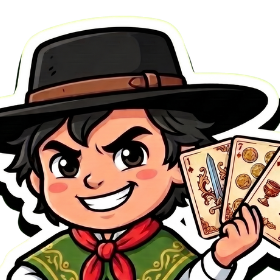
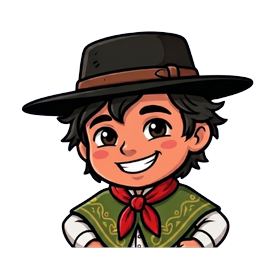
Pase 699: gaucho nuevo sonriente y login sin scroll en celular

diff --git a/src/components/Auth/AuthScreen.js b/src/components/Auth/AuthScreen.js
@@ -45,8 +45,64 @@ function Filigrana() {
   );
 }
 
+// Pase 699: login/registro en celular = pantalla fija sin scroll (espaciados compactos + escala si aún así no entra).
+function useEsCelAuth() {
+  const [v, setV] = useState(() => typeof window !== 'undefined' && !!window.matchMedia && window.matchMedia('(max-width: 899px)').matches);
+  useEffect(() => {
+    if (typeof window === 'undefined' || !window.matchMedia) return undefined;
+    const mq = window.matchMedia('(max-width: 899px)');
+    const f = () => setV(mq.matches);
+    f();
+    if (mq.addEventListener) mq.addEventListener('change', f); else mq.addListener(f);
+    return () => { if (mq.removeEventListener) mq.removeEventListener('change', f); else mq.removeListener(f); };
+  }, []);
+  return v;
+}
+const CSS_AUTH_CEL = `
+.au-pagina { height: 100dvh; min-height: 0 !important; overflow: hidden; padding: 8px 12px 6px !important; align-items: flex-start !important; box-sizing: border-box; }
+.au-app { transform-origin: 50% 0; }
+.au-logowrap { margin-bottom: 8px !important; }
+.au-logo { max-width: 250px !important; }
+.au-sub { font-size: 16px !important; }
+.au-panelext { padding: 8px !important; }
+.au-panel { padding: 12px 14px 14px !important; }
+.au-tabs { margin-bottom: 10px !important; }
+.au-tab { padding: 6px !important; }
+.au-field { margin-bottom: 8px !important; }
+.au-label { margin-bottom: 2px !important; font-size: 12px !important; }
+.au-input { padding: 9px 12px !important; font-size: 16px !important; }
+.au-btn { padding: 11px !important; }
+.au-olvide { margin-top: 6px !important; }
+.au-acepta { margin-top: 8px !important; font-size: 11.5px !important; line-height: 1.3 !important; }
+.au-divider { margin: 10px 0 8px !important; }
+.au-fb { padding: 8px !important; }
+.au-aviso { margin-top: 8px !important; font-size: 10.5px !important; line-height: 1.3 !important; }
+.au-anot { margin-top: 8px !important; padding: 6px 14px !important; }
+.au-footer { margin-top: 10px !important; }
+`;
+
 export default function AuthScreen({ onLoginExitoso, onOlvidoPassword, onIrAnotador, musicaMuteada, onToggleMusica }) {
   const [modo, setModo] = useState('login');
+  const esCel = useEsCelAuth();
+  const appRef = useRef(null);
+  const [escalaAuth, setEscalaAuth] = useState(1);
+  useEffect(() => {
+    if (!esCel) { setEscalaAuth(1); return undefined; }
+    const medir = () => {
+      const el = appRef.current;
+      if (!el) return;
+      const nat = el.offsetHeight;
+      const libre = window.innerHeight - 14;
+      if (nat > 0) {
+        const e = Math.max(0.6, Math.min(1, libre / nat));
+        setEscalaAuth((p) => (Math.abs(p - e) > 0.005 ? e : p));
+      }
+    };
+    medir();
+    const t = setInterval(medir, 500);
+    window.addEventListener('resize', medir);
+    return () => { clearInterval(t); window.removeEventListener('resize', medir); };
+  }, [esCel, modo]);
   const [form, setForm] = useState({ username: '', email: '', password: '' });
   const [error, setError] = useState('');
   const [cargando, setCargando] = useState(false);
@@ -236,7 +292,8 @@ useEffect(() => {
 }, []);
 
   return (
-  <div style={estilos.pagina}>
+  <div className={esCel ? 'au-pagina' : undefined} style={estilos.pagina}>
+    {esCel && <style id="auth-celular-699">{CSS_AUTH_CEL}</style>}
     <button
       type="button"
       onClick={onToggleMusica}
@@ -246,36 +303,36 @@ useEffect(() => {
       {musicaMuteada ? '🔇' : '🎵'}
     </button>
 
-    <div style={estilos.app}>
+    <div ref={appRef} className="au-app" style={esCel && escalaAuth < 1 ? { ...estilos.app, transform: `scale(${escalaAuth})` } : estilos.app}>
 
-        <div style={estilos.logoWrap}>
-          <img src="/assets/trucoche-logo.png" alt="TrucoChe" style={estilos.logoCompleto} />
-          <div style={estilos.logoSub}>che, ¿un truquito?</div>
+        <div className="au-logowrap" style={estilos.logoWrap}>
+          <img src="/assets/trucoche-logo.png" alt="TrucoChe" className="au-logo" style={estilos.logoCompleto} />
+          <div className="au-sub" style={estilos.logoSub}>che, ¿un truquito?</div>
         </div>
 
         {/* Pase de rediseño: placa de madera de caoba con remaches de
             bronce en las 4 esquinas envolviendo el pergamino interior
             (antes era una sola caja crema plana con borde chocolate). */}
-        <div style={estilos.panelExterior}>
+        <div className="au-panelext" style={estilos.panelExterior}>
           <span style={{ ...estilos.remache, top: 10, left: 10 }} />
           <span style={{ ...estilos.remache, top: 10, right: 10 }} />
           <span style={{ ...estilos.remache, bottom: 10, left: 10 }} />
           <span style={{ ...estilos.remache, bottom: 10, right: 10 }} />
-        <div style={estilos.panel}>
+        <div className="au-panel" style={estilos.panel}>
           <Filigrana />
 
-          <div style={estilos.tabs}>
+          <div className="au-tabs" style={estilos.tabs}>
             <button
               type="button"
               onClick={() => { setModo('login'); setError(''); }}
-              style={{ ...estilos.tab, ...(modo === 'login' ? estilos.tabActivo : {}) }}
+              className="au-tab" style={{ ...estilos.tab, ...(modo === 'login' ? estilos.tabActivo : {}) }}
             >
               Iniciar sesión
             </button>
             <button
               type="button"
               onClick={() => { setModo('registro'); setError(''); }}
-              style={{ ...estilos.tab, ...(modo === 'registro' ? estilos.tabActivo : {}) }}
+              className="au-tab" style={{ ...estilos.tab, ...(modo === 'registro' ? estilos.tabActivo : {}) }}
             >
               Registrarme
             </button>
@@ -283,8 +340,8 @@ useEffect(() => {
 
           <form onSubmit={handleSubmit}>
             {modo === 'registro' && (
-              <div style={estilos.field}>
-                <label style={estilos.label}>Usuario</label>
+              <div className="au-field" style={estilos.field}>
+                <label className="au-label" style={estilos.label}>Usuario</label>
                 <input
                   type="text"
                   name="username"
@@ -292,13 +349,13 @@ useEffect(() => {
                   value={form.username}
                   onChange={handleChange}
                   required
-                  style={estilos.input}
+                  className="au-input" style={estilos.input}
                 />
               </div>
             )}
 
-            <div style={estilos.field}>
-              <label style={estilos.label}>Email</label>
+            <div className="au-field" style={estilos.field}>
+              <label className="au-label" style={estilos.label}>Email</label>
               <input
                 type="email"
                 name="email"
@@ -306,12 +363,12 @@ useEffect(() => {
                 value={form.email}
                 onChange={handleChange}
                 required
-                style={estilos.input}
+                className="au-input" style={estilos.input}
               />
             </div>
 
-            <div style={estilos.field}>
-              <label style={estilos.label}>Contraseña</label>
+            <div className="au-field" style={estilos.field}>
+              <label className="au-label" style={estilos.label}>Contraseña</label>
               <input
                 type="password"
                 name="password"
@@ -319,12 +376,12 @@ useEffect(() => {
                 value={form.password}
                 onChange={handleChange}
                 required
-                style={estilos.input}
+                className="au-input" style={estilos.input}
               />
             </div>
 
             {modo === 'registro' && (
-              <label style={estilos.aceptaFila}>
+              <label className="au-acepta" style={estilos.aceptaFila}>
                 <input
                   type="checkbox"
                   checked={aceptaTerminos}
@@ -342,7 +399,7 @@ useEffect(() => {
 
             {error && <div style={estilos.errorBox}>{error}</div>}
 
-          <button type="submit" disabled={cargando} style={estilos.btnPrimary}>
+          <button type="submit" disabled={cargando} className="au-btn" style={estilos.btnPrimary}>
               {cargando ? 'Cargando...' : (modo === 'login' ? '✓ Entrar' : '✓ Registrarme')}
             </button>
 
@@ -350,6 +407,7 @@ useEffect(() => {
               <button
                 type="button"
                 onClick={onOlvidoPassword}
+                className="au-olvide"
                 style={estilos.linkOlvide}
               >
                 ¿Olvidaste tu contraseña?
@@ -357,18 +415,18 @@ useEffect(() => {
             )}
           </form>
 
-          <div style={estilos.divider}><span style={estilos.dividerTexto}>o</span></div>
+          <div className="au-divider" style={estilos.divider}><span style={estilos.dividerTexto}>o</span></div>
 
           <div style={estilos.googleBox}>
             {/* Pase 316: clip-path de 2px para ocultar el borde gris propio del botón de Google (queda solo el marco negro de la caja). */}
             <div ref={botonGoogleRef} style={{ clipPath: 'inset(2px)' }} />
           </div>
 
-          <button type="button" onClick={iniciarSesionFacebook} style={estilos.btnFacebook} disabled={cargando}>
+          <button type="button" onClick={iniciarSesionFacebook} className="au-fb" style={estilos.btnFacebook} disabled={cargando}>
             <img src="/assets/facebook-icon.png" alt="Facebook" style={{ width: 20, height: 20 }} />
             Continuar con Facebook
           </button>
-          <div style={estilos.avisoSocial}>
+          <div className="au-aviso" style={estilos.avisoSocial}>
             Al continuar con Google o Facebook aceptás los{' '}
             <a href="/terminos" target="_blank" rel="noopener noreferrer" style={estilos.aceptaLink}>Términos de Servicio</a>
             {' '}y la{' '}
@@ -376,7 +434,7 @@ useEffect(() => {
           </div>
           {/* Pase 404: el Anotador Offline se puede usar sin iniciar sesión. */}
           {onIrAnotador && (
-            <button type="button" onClick={onIrAnotador} style={estilos.anotadorBoton}>
+            <button type="button" onClick={onIrAnotador} className="au-anot" style={estilos.anotadorBoton}>
               <img src="/assets/images/icono-anotador.png" alt="" style={estilos.anotadorIcono} />
               Anotador Offline
             </button>
@@ -386,7 +444,7 @@ useEffect(() => {
         </div>
         {/* ← cierre de panelExterior (marco de madera) */}
 
-          <div style={estilos.footerHint}>
+          <div className="au-footer" style={estilos.footerHint}>
             Un juego de truco argentino
           </div>
 
